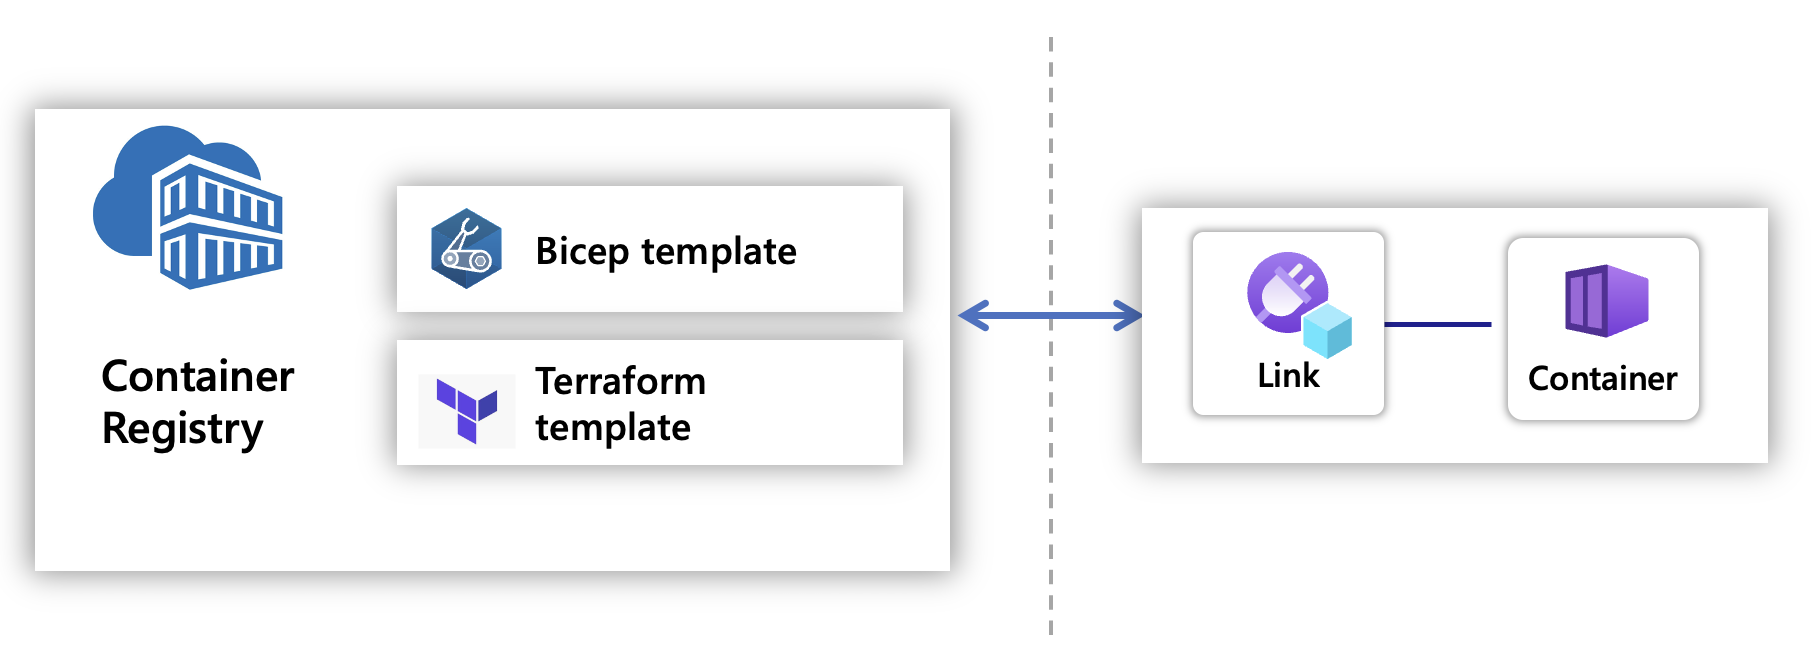
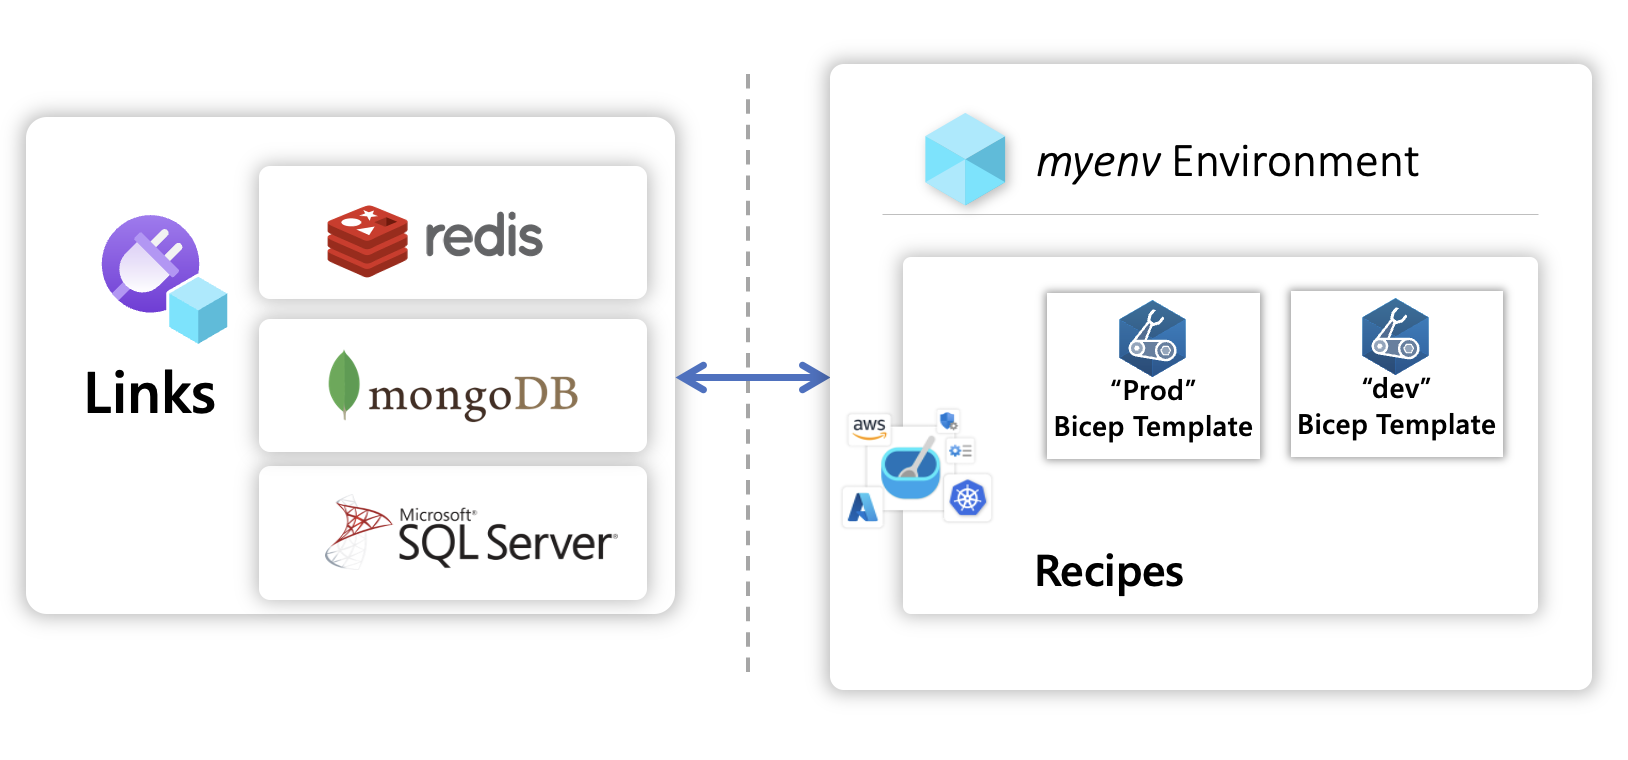
Updated guide

Changed region(s): [[0.0, 0.0604, 0.9828, 0.9366]]

diff --git a/docs/content/author-apps/recipes/_index.md b/docs/content/author-apps/recipes/_index.md
@@ -6,31 +6,65 @@ description: "Leverage abstraction, portability and control in your Radius appli
 weight: 300
 ---
 
+{{% alert title="Warning" color="warning" %}}
+Recipes are a work-in-progress, currently we support the following Links: [MongoDb]({{< ref mongodb >}}), [Redis]({{< ref redis >}})
+{{% /alert %}}
+
 ## Overview
 
-Recipes are templates stored in container registries that can be deployed by [Links]({{< ref links-concept >}}). They leverage the **abstraction** and **portability** that Links provide Radius applications in order to allow for a separation of concerns between infra teams and developers. This allows for infra teams to define and configure resources in templates and allow for developers to deploy those resources without complexity.
+Recipes are templates stored in container registries that can be deployed by [Links]({{< ref links-concept >}}) once a Recipe has been registered in a Radius environment. Their purpose is to facilitate a **separation of concerns** between infrastructure teams and developers by allowing for a **automated infrastructure deployment** that doesn't require developers to pick up infrastructure resource expertise.
+
 
 <img src="recipes.png" alt="Diagram of a container registry containing multiple templates and linking back to a Radius application with a Link" width=700px />
 
+## Recipe features
+
+| Feature | Description |
+|---------|-------------|
+| **Names** | Assign specific names to templates to enable discovery and usability throughout your Radius environment |
+| **Default Recipes** *(coming soon)* | Define a default set of Recipes in order to enable usability without identification by developers.
+| **Parameters** | Define parameters inside a Recipe for user customizability and pass in values either through your Radius environment or through individual Links.
+| **Recipe Packs** *(coming soon)* | Create Recipes and organize them into groups of Recipe templates that can be consumed as individual groups.
+
+## Rad CLI commands
+| Command | Description |
+|---------|-------------|
+| [**rad recipe**]({{< ref rad_recipe >}}) | Manage link recipes Link recipes automate the deployment of infrastructure and configuration of links.
+| [**rad recipe list**]({{< ref rad_recipe_list >}}) | List link recipes within an environment.
+| [**rad recipe register**]({{< ref rad_recipe_register >}}) | Add a link recipe to an environment. You can specify parameters using the ‘–parameter’ flag (’-p’ for short).
+| [**rad recipe unregister**]({{< ref rad_recipe_unregister >}}) | Unregister a link recipe from an environment.
+
+
+### Authoring Recipes
+
+To learn more about how to create your own custom Recipe visit the [administrative Recipe guide]({{< >}})
+
+
 ### Example
 
-The following examples show how a **link** can deploy a Recipe, which in deploys a Redis cache.
+{{% alert title="Prerequisite" color="info" %}}
+Add a Recipe to your Radius environment by following the [administrative Recipe guide]({{< >}})
+{{% /alert %}}
 
-<h4>Recipe Template</h4>
-
-In this example the following Recipe template is stored in a container registry:
+<h4>Step 1: Create a Redis Link</h4>
 
 {{< rad file="snippets/recipe-template.bicep" embed=true >}}
 
-<h4>Link</h4>
+<h4>Step 2: Deploy with `rad deploy`</h4>
 
-A Redis link can be configured with parameters that are enabled by the infra team in each Recipe when needed:
+```zsh
+TODO
+Deploy............
+```
 
-{{< rad file="snippets/link-example.bicep" embed=true >}}
+<h4>Step 3: Confirm containers have been deployed with `kubectl get pods`</h4>
 
+```zsh
+TODO
+Kube
+```
 
-## Recipe Guides
+## Additional guides
 
-Check out the Radius Recipes quickstart docs to learn how to leverage links and Recipes in your application:
+For more information refer to the [Recipe quickstart]({{< >}})
 
-<!-- {{< button text="Link resources" page="link-schema" >}} -->
